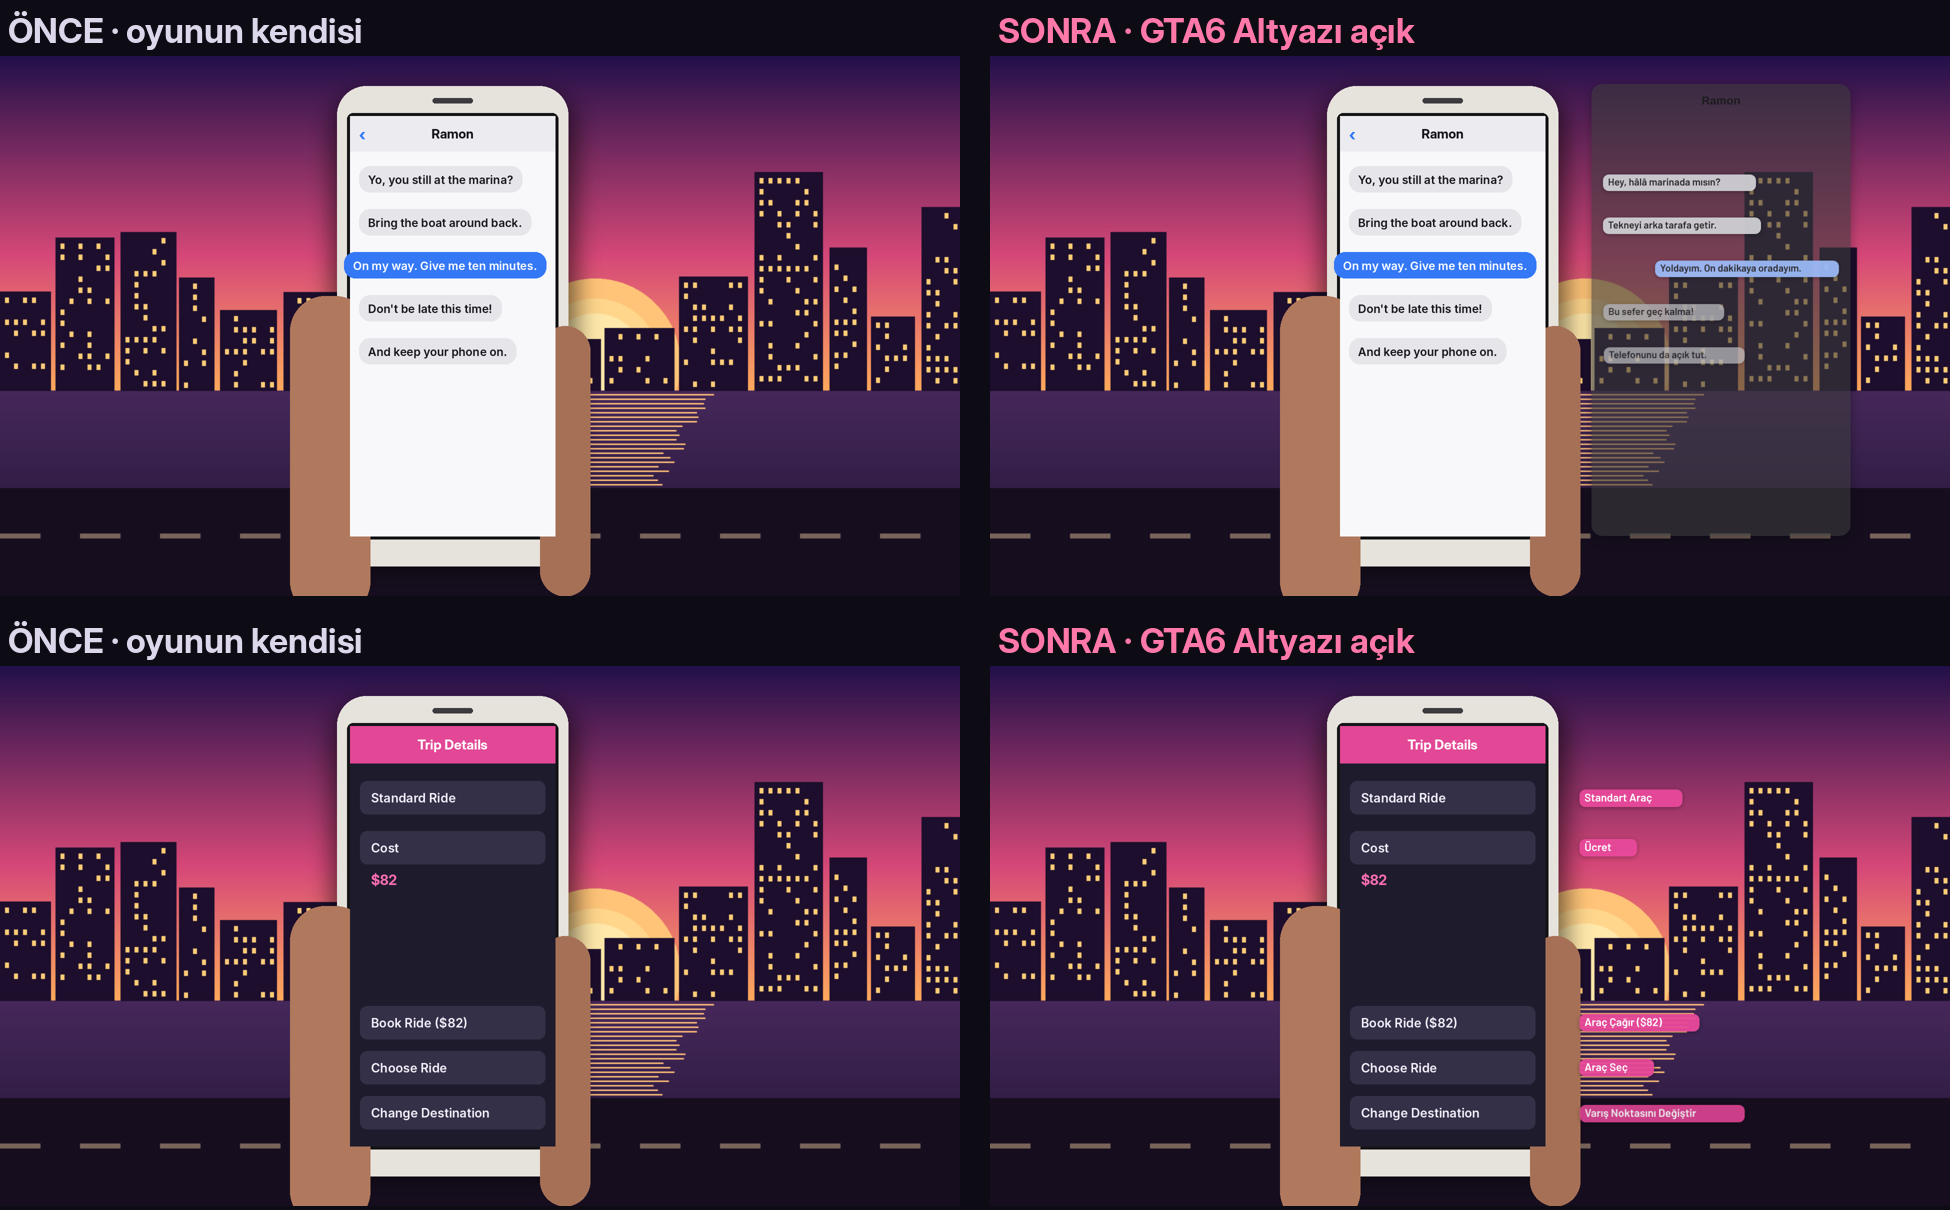
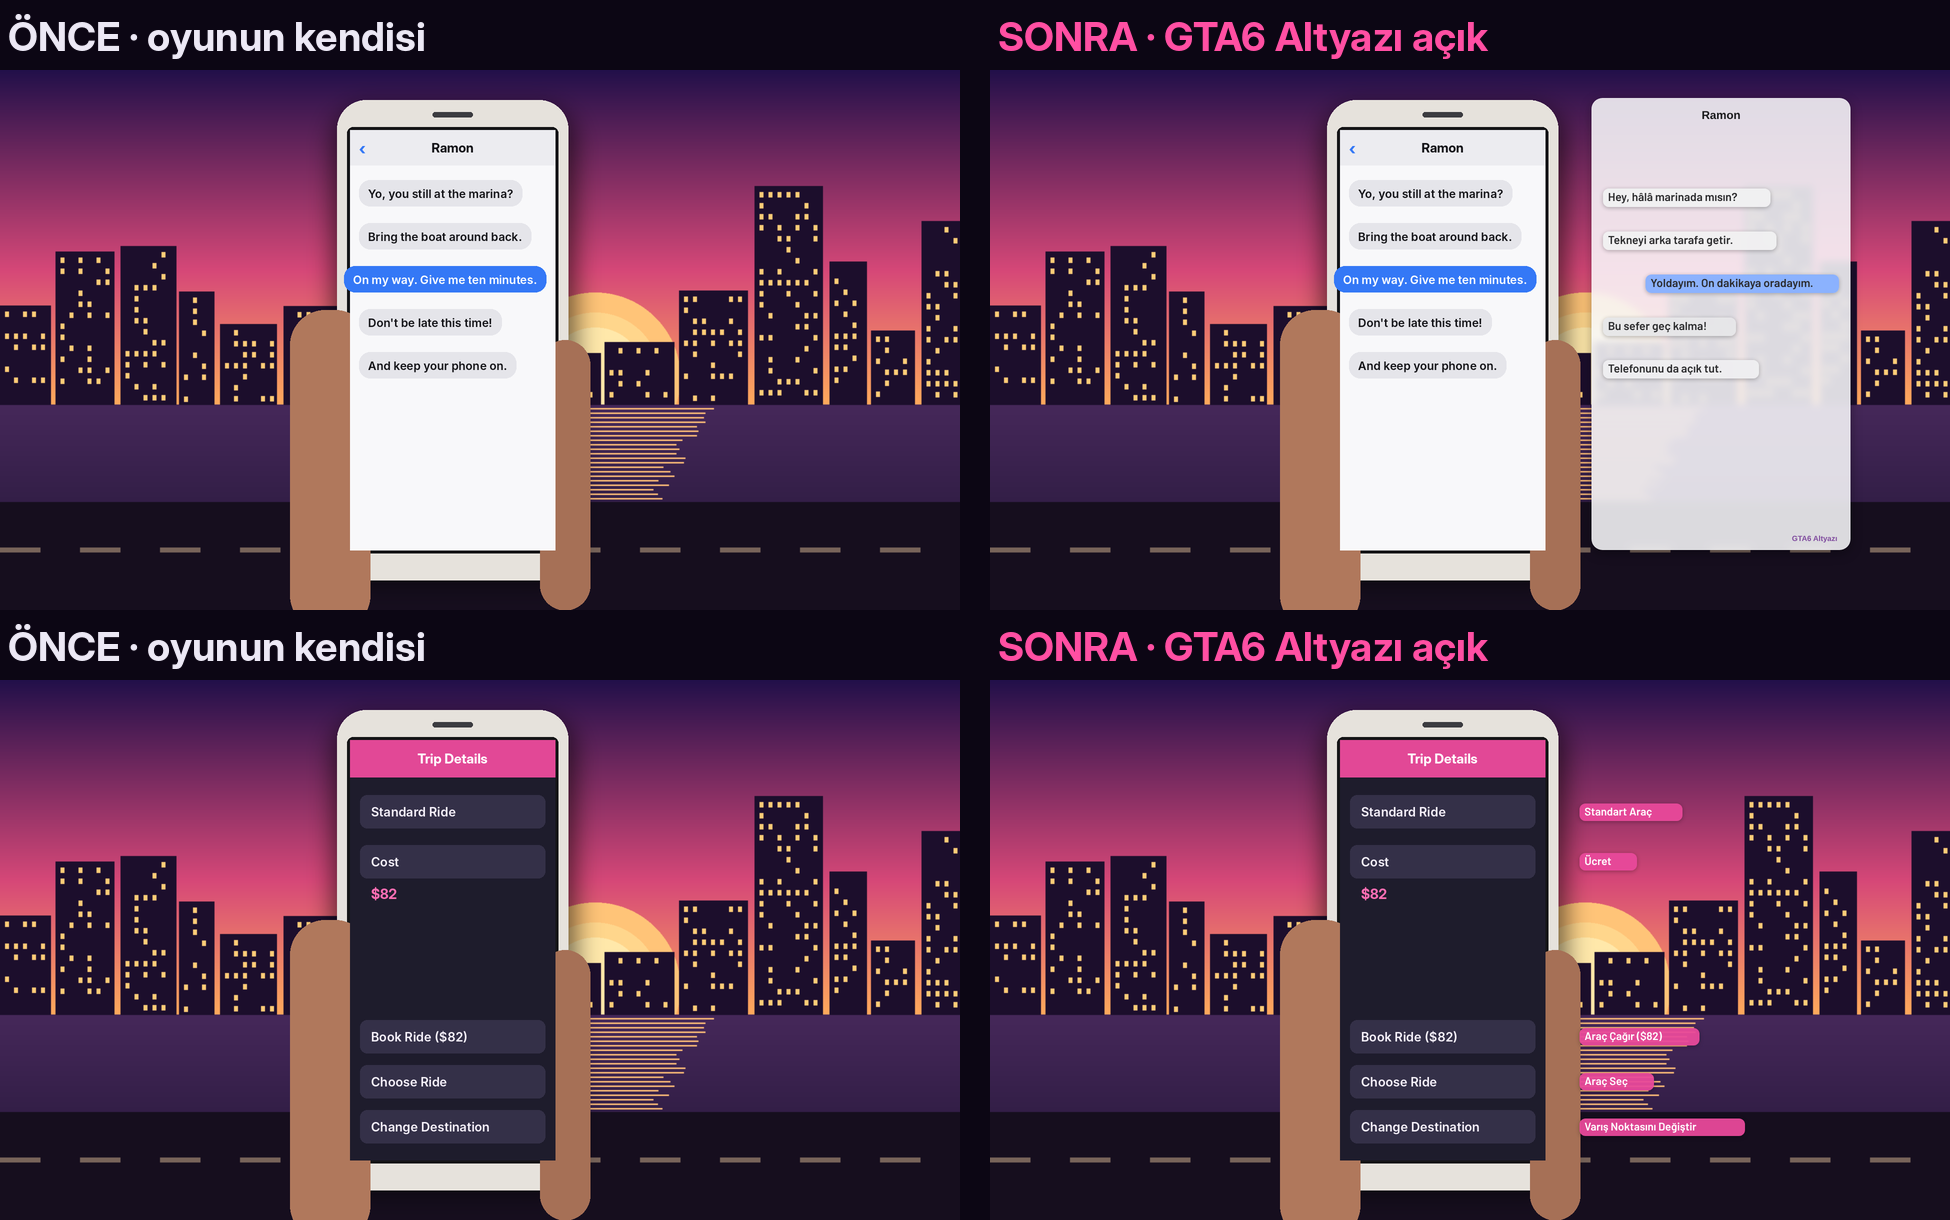
Telefon paneli: telefon ekranının Türkçe kopyası gibi süt beyazı buzlu panel, mesaj hizasında balonlar, GTA6 Altyazı rozeti
Gündüz sohbette zemin örneği telefonun çerçevesine düşünce panel koyu çıkıyordu; gelen balonlar açıksa
sohbet açık sayılır. Demo görselleri yenilendi.

Claude-Session: https://claude.ai/code/session_01Vsk1KccPrUYCuPzBtpR9u6

diff --git a/tv-web/src/style.css b/tv-web/src/style.css
@@ -87,11 +87,20 @@ html, body {
   -webkit-animation: tv-bubble-in 0.32s ease-out both; animation: tv-bubble-in 0.32s ease-out both; }
 /* backdrop: telefonun yanındaki yazısız mesajlaşma paneli: yuvarlak, gölgeli, yumuşakça belirir. */
 #screen .item.backdrop { padding: 0; border-radius: 22px; box-shadow: 0 6px 22px rgba(0, 0, 0, 0.35);
+  -webkit-backdrop-filter: blur(8px) saturate(1.1); backdrop-filter: blur(8px) saturate(1.1);
+  border: 1px solid rgba(255, 255, 255, 0.35);
   -webkit-animation: tv-panel-in 0.35s ease-out both; animation: tv-panel-in 0.35s ease-out both;
   -webkit-transition: left 0.25s ease-out, top 0.25s ease-out; transition: left 0.25s ease-out, top 0.25s ease-out; }
 /* Panelin başlığı (gönderenin adı), telefondaki gibi üstte ortada. */
 #screen .item.backdrop .panel-title { position: absolute; left: 0; right: 0; top: 2.2%; text-align: center; font-weight: 700;
   color: #1c1c1e; white-space: nowrap; overflow: hidden; text-overflow: ellipsis; padding: 0 12%; text-shadow: none; }
+/* Panelin sağ altında küçük GTA6 Altyazı rozeti (telefonun yanındaki panelin bizden geldiği belli olsun). */
+#screen .item.backdrop .panel-badge { position: absolute; right: 5%; bottom: 1.2%; height: 2.6%; min-height: 16px;
+  display: -webkit-box; display: -webkit-flex; display: flex; -webkit-box-align: center; -webkit-align-items: center;
+  align-items: center; opacity: 0.8; font-weight: 700; color: #6b2a8f; white-space: nowrap; text-shadow: none; }
+#screen .item.backdrop.dark .panel-badge { color: #ff9ccc; }
+#screen .item.backdrop .panel-badge img { height: 100%; width: auto; border-radius: 22%; margin-right: 5px; }
+#screen .item.backdrop.dark .panel-title { color: #f5f5f7; }
 #screen.leaving { opacity: 0; -webkit-transition: opacity 0.3s ease-in; transition: opacity 0.3s ease-in; }
 #screen.steady .item.backdrop { -webkit-animation: none; animation: none; }
 @-webkit-keyframes tv-panel-in { from { opacity: 0; -webkit-transform: translateX(-10px) scale(0.98); } to { opacity: 1; -webkit-transform: none; } }

diff --git a/tv-web/test/tv-screen.test.js b/tv-web/test/tv-screen.test.js
@@ -106,7 +106,7 @@ test('alpha, angle ve side', { skip: skip() }, async () => {
   } finally { await tv.close(); }
 });
 
-test('backdrop: yazısız panel, başlığı gönderenin adı, filigran yok', { skip: skip() }, async () => {
+test('backdrop: yazısız panel, başlığı gönderenin adı, sağ altta GTA6 Altyazı rozeti', { skip: skip() }, async () => {
   const tv = await openTv(browser, { width: W, height: H });
   try {
     await tv.send('screen', { duration: 10000, items: [
@@ -118,7 +118,7 @@ test('backdrop: yazısız panel, başlığı gönderenin adı, filigran yok', { 
     assert.equal(panel.cls, 'item backdrop');
     assert.equal(panel.bg, 'rgba(242, 242, 247, 0.9)');
     assert.equal(panel.title, 'Donnie');
-    assert.equal(panel.images, 0);
+    assert.equal(panel.images, 1);
     assert.equal(panel.dataText, '');
     assert.ok(Math.abs(panel.width - 0.22 * W) < 1 && Math.abs(panel.height - 0.55 * H) < 1, JSON.stringify(panel));
     assert.equal(plainPanel.bg, 'rgb(242, 242, 247)');

diff --git a/tv-web/src/app.js b/tv-web/src/app.js
@@ -501,6 +501,20 @@
       head.style.fontSize = Math.max(BUBBLE_MIN_FONT, Math.round(headLine * 1.05)) + 'px';
       panel.appendChild(head);
     }
+    // Koyu sohbette başlık ve rozet açık renkli yazılır.
+    var r = parseInt(fill.substr(1, 2), 16), g = parseInt(fill.substr(3, 2), 16), b = parseInt(fill.substr(5, 2), 16);
+    if ((r * 299 + g * 587 + b * 114) / 1000 < 128) panel.className += ' dark';
+    var badge = document.createElement('div');
+    badge.className = 'panel-badge';
+    var icon = document.createElement('img');
+    icon.src = 'icon.png';
+    icon.alt = '';
+    badge.appendChild(icon);
+    var name = document.createElement('span');
+    name.textContent = 'GTA6 Altyazı';
+    badge.appendChild(name);
+    badge.style.fontSize = Math.max(10, Math.round(height * 0.014)) + 'px';
+    panel.appendChild(badge);
     return panel;
   }
 

diff --git a/altyazi/sahne/telefon.py b/altyazi/sahne/telefon.py
@@ -518,7 +518,9 @@ COVER_PAD_Y = 0.004
 SIDE_WIDTH = 0.27
 SIDE_ALPHA = 0.95
 BACKDROP_ALPHA = 0.6
-# Panelin altında logoya bırakılan yer (kare yüksekliğine oranla).
+# Açık (gündüz) sohbette panel telefon ekranının buzlu bir kopyası gibi süt beyazı ve daha az saydamdır.
+LIGHT_BACKDROP_ALPHA = 0.88
+# Panelin sağ altında GTA6 Altyazı rozetine bırakılan yer (kare yüksekliğine oranla).
 BADGE_SPACE = 0.03
 
 
@@ -708,6 +710,11 @@ def _hex(r: int, g: int, b: int) -> str:
     return "#%02x%02x%02x" % (int(r), int(g), int(b))
 
 
+def _fill_rgb(fill: Optional[str]) -> Optional[tuple[int, int, int]]:
+    value = _parse_hex(fill)
+    return None if value is None else ((value >> 16) & 0xff, (value >> 8) & 0xff, value & 0xff)
+
+
 def _parse_hex(fill: Optional[str]) -> Optional[int]:
     if fill is None or len(fill) != 7:
         return None
@@ -792,14 +799,14 @@ def side_bubbles(messages: Sequence[Message], translations: Sequence[str], panel
     longest: list[int] = []
     heights: list[float] = []
     for index, cover in enumerate(cover_items):
-        # Kullanıcı isteği: Türkçe %4, sonra %6 daha büyütüldü (→ 0,97).
-        line = min(max(kept[index].line_height, 0.018), 0.028) * 0.97
+        # Türkçe telefondaki yazıya yakın boyda (panel telefon ekranının kopyası gibi okunsun).
+        line = min(max(kept[index].line_height, 0.018), 0.028) * 1.08
         count, long = lines(cover.translation, bubble_max - pad, line)
         counts.append(count)
         longest.append(long)
         heights.append(line)
     placed = boxes(kept, counts, heights, (inner.left, inner.right))
-    # Panel telefonun boyundadır; balonlar sığmazsa yukarı doğru sıkışır. Panelin sağ altında Nino logosu durur.
+    # Panel telefonun boyundadır; balonlar sığmazsa yukarı doğru sıkışır. Panelin sağ altında GTA6 Altyazı rozeti durur.
     bottom = panel.box.bottom - gap - BADGE_SPACE
     if placed and placed[-1].bottom > bottom:
         shift = placed[-1].bottom - bottom
@@ -830,15 +837,25 @@ def side_bubbles(messages: Sequence[Message], translations: Sequence[str], panel
     ordered = sorted(samples, key=lambda c: c[0] + c[1] + c[2])
     ground = ordered[len(samples) // 2] if ordered else (226, 228, 233)
     backdrop = ScreenItem("", "", TextBox(col.left, panel.box.top, col.right, panel.box.bottom), 0.02)
-    # Açık sohbette zemin beyaza yaklaşır, gelen balon beyazlaşır, giden balonun mavisi belirginleşir.
-    light_chat = chat and (ground[0] * 299 + ground[1] * 587 + ground[2] * 114) // 1000 > 150
+
+    def lum(c: Sequence[int]) -> int:
+        return (c[0] * 299 + c[1] * 587 + c[2] * 114) // 1000
+
+    # Açık sohbette zemin beyaza yaklaşır, gelen balon beyazlaşır, giden balonun mavisi belirginleşir. Zemin örneği
+    # telefonun koyu çerçevesine ya da başparmağa denk gelebilir: gelen balonlar açıksa sohbet de açık sayılır.
+    incoming = sorted(lum(c) for c in (_fill_rgb(cover_items[i].fill) for i in range(len(cover_items)) if not outgoing[i])
+                      if c is not None)
+    light_bubbles = bool(incoming) and incoming[len(incoming) // 2] > 150
+    light_chat = chat and (lum(ground) > 150 or light_bubbles)
+    if light_chat and lum(ground) <= 150:
+        ground = (236, 236, 240)
     to_white = 0.6 if light_chat else 0.0
 
     def lift(v: int) -> int:
         return int(float(v) + (255 - float(v)) * to_white)
 
     backdrop.fill = _hex(lift(ground[0]), lift(ground[1]), lift(ground[2]))
-    backdrop.alpha = BACKDROP_ALPHA
+    backdrop.alpha = LIGHT_BACKDROP_ALPHA if light_chat else BACKDROP_ALPHA
     backdrop.backdrop = True
     # Panelin en üstünde ortada gönderenin adı (TV başlık olarak çizer; ad çevrilmez).
     if chat and title:

diff --git a/CHANGELOG.md b/CHANGELOG.md
@@ -3,6 +3,12 @@
 Her sürümün kurulum dosyası [Releases](https://github.com/CH4P4R/gta6-altyazi/releases) sayfasındadır. Eski bir
 sürümün üstüne kurabilirsin; ayarların ve Claude anahtarın korunur.
 
+## Sıradaki sürüm
+- **Telefonun yanındaki mesaj paneli telefon ekranının Türkçe kopyası gibi:** gündüz sohbette panel süt beyazı ve
+  buzlu (arkası bulanık), telefon boyunda; kişinin adı üstte, her mesaj telefondaki hizasında, gelenler solda beyaz,
+  giden mesaj sağda açık mavi balonda. Yazılar biraz büyüdü, panelin sağ altında küçük GTA6 Altyazı rozeti var.
+  Telefonun koyu çerçevesi ya da başparmak yüzünden panel koyu çıkıyordu, düzeldi.
+
 ## 0.9.5 · GameTranslator'ın yeni paket sunucusu, zaten Türkçe satırlar çevrilmez
 - **Hazır paketler:** GameTranslator paketlerini 23 Kasım'da kendi sunucusuna taşıdı; paket aynamız artık oradan da
   alıyor (eski yer yedek). Yeni GameTranslator paketleri kendiliğinden gelir.
